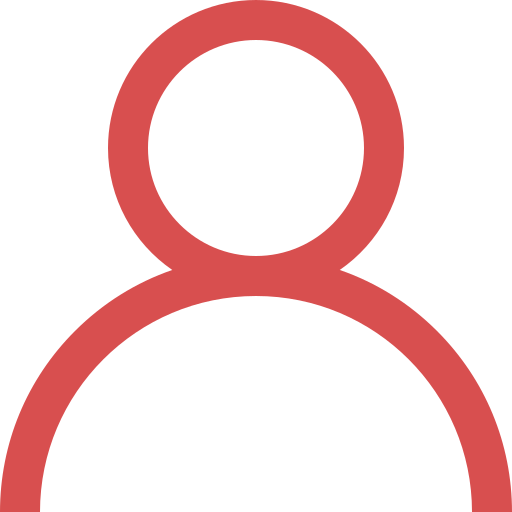
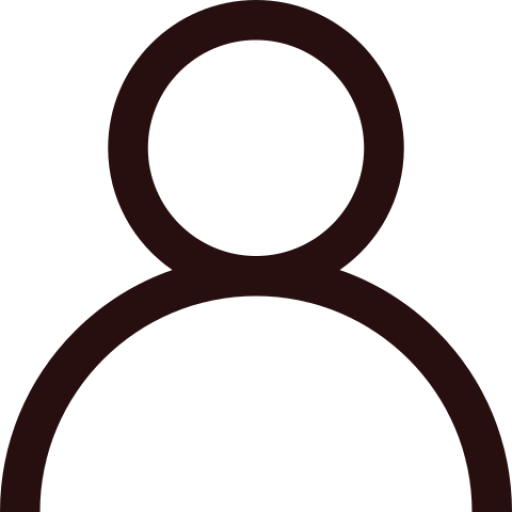
main page skonczony

Changed region(s): [[0.0, 0.0, 1.0, 1.0]]

diff --git a/src/app/home-page/site-parts/site-parts.component.html b/src/app/home-page/site-parts/site-parts.component.html
@@ -1,10 +1,10 @@
 <section class="site-parts">
     <div class="site-parts__wrapper">
         <div class="site-parts__element">
-            <img class="site-parts__element--image" src="./../../../assets/images/apartament.JPG" alt="">
+            <img class="site-parts__element--image" src="./../../../assets/images/apartament/salon-web.jpg" alt="">
             <div class="site-parts__element--box">
                 <h1 class="site-parts__element--box-text">Apartament</h1>
-                <app-button buttonText="Przejdź" [isRed]="false"></app-button>
+                <app-button buttonText="Przejdź" [isDark]="true"></app-button>
                 <!-- //<a class="site-parts__element--box-button">Przjedź</a> -->
             </div>
         </div>
@@ -12,7 +12,7 @@
             <div class="site-parts__element--box">
                 <h1 class="site-parts__element--box-text">Okolice</h1>
                 <!-- <a class="site-parts__element--box-button">Przjedź</a> -->
-                <app-button buttonText="Przejdź" [isRed]="false"></app-button>
+                <app-button buttonText="Przejdź" [isDark]="true"></app-button>
             </div>
             <img class="site-parts__element--image" src="./../../../assets/images/HomePageImage.jpg" alt="">
         </div>
@@ -21,7 +21,7 @@
             <div class="site-parts__element--box">
                 <h1 class="site-parts__element--box-text">Atrakcje</h1>
                 <!-- <a class="site-parts__element--box-button">Przjedź</a> -->
-                <app-button buttonText="Przejdź" [isRed]="false"></app-button>
+                <app-button buttonText="Przejdź" [isDark]="true"></app-button>
             </div>
         </div>
     </div>

diff --git a/src/app/shared-components/call-to-action-phone/call-to-action-phone.component.scss b/src/app/shared-components/call-to-action-phone/call-to-action-phone.component.scss
@@ -2,16 +2,19 @@
 @import "../../../sharedScss/mixins";
 
 .call-to-action {
-    background-image: linear-gradient(to right bottom, $color-primary, $color-primary-dark-1);
+    //background-image: linear-gradient(to right bottom, $color-primary, $color-primary-dark-1);
+    //background-image: $gradient-red;
     height: $section-break;
     position: relative;
 
     &__info {
         @include center;
-        color: $color-secondary;
+        //color: $color-text;
+
+        
         &--icons {
             :not(:last-child){
-                margin-right: 30%;
+                margin-right: 10%;
             }
             text-align: center;
             transform: translateY(1.7rem);
@@ -22,14 +25,18 @@
         }
 
         &--phone {
-            font-size: 8rem;
-            text-shadow: 0 1rem 2rem rgba(black, .8);
+            font-size: 7rem;
+            //text-shadow: 0 1rem 2rem rgba(black, .8);
+            @extend %text-gradient;
         }
 
         &--text {
             text-align: center;
-            font-size: 3rem;
-            text-shadow: 0 0.5rem 1rem rgba(black, .4);
+            font-size: $heading-h1;
+            //text-shadow: 0 0.5rem 1rem rgba(black, .4);
+            border-bottom: $my-border-bottom;
+            padding-bottom: 1.2rem;
+            @extend %text-gradient;
         }
     }
 }

diff --git a/src/app/home-page/main-info/main-info.component.scss b/src/app/home-page/main-info/main-info.component.scss
@@ -10,6 +10,7 @@
     //margin: 0px 5rem;
     background-image: url('./../../../assets/images/dom2.JPG');
     background-size: cover;
+    background-position: center;
 
 
     &__photo {
@@ -24,9 +25,11 @@
 
     &__content {
         height: 100%;
-        background-image: $gradient-white;
+        background-color: rgba($color-secondary, .9);
         display: grid;
         grid-template-rows: auto;
+        padding: 3rem;
+        border-bottom: $my-border-bottom;
 
         &--name {
             text-align: center;
@@ -45,11 +48,11 @@
 
         &--four-people {
             text-align: center;
-            margin-top: 2rem;
+            //margin-top: 2rem;
             &--icon {
 
                 img {
-                    height: 5rem;    
+                    height: 4rem;    
                     //display: inline-block;
                 }
             }
@@ -67,7 +70,7 @@
             list-style: none;
             width: 100%;
             text-align: center;
-            padding: 2rem 0;
+            //padding: 2rem 0;
         }
 
         &--info-item{
@@ -77,7 +80,7 @@
             }
 
             img {
-                height: 9rem;
+                height: 5rem;
             }
 
             &--text{

diff --git a/src/app/home-page/site-parts/site-parts.component.scss b/src/app/home-page/site-parts/site-parts.component.scss
@@ -7,19 +7,23 @@
     padding: 4rem 12rem;
 
     &__wrapper {
-        background-color: orange;
         height: 100%;
-        box-shadow: 0 .5rem 6rem rgba($color-black , .2);
+        box-shadow: 0 .5rem 6rem rgba($color-primary-dark-1 , .2);
     }
 
     &__element {
         //border: 1px solid black;
         height: 33.333333%;
-        background-image: $gradient-red;
+        background-image: $gradient-white;
         position: relative;
 
         display: grid;
         grid-template-columns: 1fr 1fr;
+
+        &:not(:last-child){
+            border-bottom: $my-border-bottom;
+        }
+        
         
 
         &--image {
@@ -38,10 +42,11 @@
             align-self: center;
             justify-self: center;
             text-align: center;
+            
 
             &-text {
-                font-size: 6rem;
-                color: $color-secondary;
+                font-size: $heading-h1-big;
+                color: $color-text;
                 margin: 2rem 0;
             }
         }

diff --git a/src/app/footer/footer.component.html b/src/app/footer/footer.component.html
@@ -22,9 +22,12 @@
             <img src="./../../assets/images/1.png" alt="" class="footer__logo">
         </div>
         <div class="footer__grid--column">
-            <h2 class="footer__heading">Media społecznościowe</h2>
-            <a href=""><img src="../../assets/images/facebook-logo.png" alt="" class="footer__img"></a>
-            <a href=""><img src="../../assets/images/instagram-logo.png" alt="" class="footer__img"></a>
+            <div class="footer__social-wrapper">
+                <h2 class="footer__heading">Media społecznościowe</h2>
+                <a href=""><img src="../../assets/images/facebook-logo.png" alt="" class="footer__img"></a>
+                <a href=""><img src="../../assets/images/instagram-logo.png" alt="" class="footer__img"></a>
+            </div>
+
         </div>
     </div>
 </section>

diff --git a/src/sharedScss/_variables.scss b/src/sharedScss/_variables.scss
@@ -13,8 +13,17 @@ $section-break: 27rem;
 
 $gradient-red: linear-gradient(135deg, rgba(222,111,111,0.5018207111946341) 0%, rgba(222,111,111,0.3001400389257265) 100%);
 $gradient-white: linear-gradient(135deg, rgba(252,253,249,1) 0%, rgba(255,255,255,1) 100%);
+$gradient-dark: linear-gradient(135deg, rgba(40,15,15,1) 0%, rgba(27,25,25,1) 100%);
 
 $heading-h1: 3rem;
 $heading-h1-big: 4rem;
 $heading-h2: 2rem;
 $heading-h3: 1rem;
+
+$my-border-bottom: .5rem solid $color-primary-dark-1;
+
+%text-gradient {
+    background-image: linear-gradient(135deg, rgba(40,15,15,1) 0%, rgba(27,25,25,1) 100%);
+    -webkit-background-clip: text;
+    -webkit-text-fill-color: transparent;
+}

diff --git a/src/app/footer/footer.component.scss b/src/app/footer/footer.component.scss
@@ -2,8 +2,9 @@
 
 .footer {
     padding: 5rem;
-    background-image: $gradient-red;
-    color: $color-secondary;
+    background-image: $gradient-white;
+    color: $color-text;
+    border-top: $my-border-bottom;
     
 
     &__grid {
@@ -39,10 +40,16 @@
     &__logo{
         width: 100%;
         transform: translate(-10rem, 1rem);
+        
     }
 
     &__img {
         width: 20%;
+        margin-right: 1rem;
+    }
+
+    &__social-wrapper {
+        text-align: center;
     }
 
 }

diff --git a/src/app/home-page/main-info/main-info.component.html b/src/app/home-page/main-info/main-info.component.html
@@ -3,9 +3,7 @@
     <div class="main-info__content">
         <h1 class="main-info__content--name">Makowy Dom</h1>
         <h3 class="main-info__content--text">Tutaj prawdziwie wypoczenisz,
-            <br>
             spędzisz czas z najmbliższymi
-            <br>
             i poczujesz magię gór.</h3>
         <div class="main-info__content--four-people">
             <div class="main-info__content--four-people--icon">

diff --git a/src/app/navbar/navbar.component.scss b/src/app/navbar/navbar.component.scss
@@ -15,7 +15,7 @@
 }
 
 .navbar {
-  border-bottom: 1px solid rgba(#280f0f, .5);
+  border-bottom: 1px solid rgba($color-primary-dark-1, .5);
 
   &__scroll-not {
     background-color: rgba($color-secondary, 0.2);
@@ -37,9 +37,7 @@
 
   &__item {
     display: inline-block;
-    &:not(:last-child) {
-      margin-right: 6rem;
-    }
+    margin-right: 5rem;
   }
 
   // Class when you scroll page

diff --git a/src/app/shared-components/button/button.component.scss b/src/app/shared-components/button/button.component.scss
@@ -2,8 +2,8 @@
 @import "../../../sharedScss/mixins";
 
 .button {
-    height: 7rem;
-    width: 28rem;
+    height: 6rem;
+    width: 24rem;
     position: relative;
     display: inline-block;
     @include boxShadow;
@@ -37,8 +37,8 @@
     }
 }
 
-.btn-red {
-    background-color: $color-primary-dark-1;
+.btn-dark {
+    background-color: $color-text;
     color: $color-secondary;
 }
 

diff --git a/src/app/shared-components/button/button.component.html b/src/app/shared-components/button/button.component.html
@@ -1,7 +1,7 @@
 <div class="button__parent">
     <a href="#" class="button" [ngClass]="{
-        'btn-red': isRed,
-        'btn-white': !isRed
+        'btn-dark': isDark,
+        'btn-white': !isDark
     }">
         <span class="button__link">{{buttonText}}</span>
     </a>

diff --git a/src/app/shared-components/button/button.component.ts b/src/app/shared-components/button/button.component.ts
@@ -8,7 +8,7 @@ import { Component, OnInit, Input } from '@angular/core';
 export class ButtonComponent implements OnInit {
 
   @Input() buttonText: string;
-  @Input() isRed: boolean = true;
+  @Input() isDark: boolean = true;
 
   constructor() { }
 
